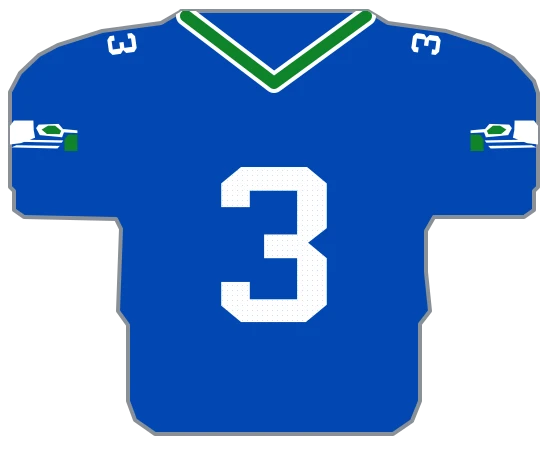
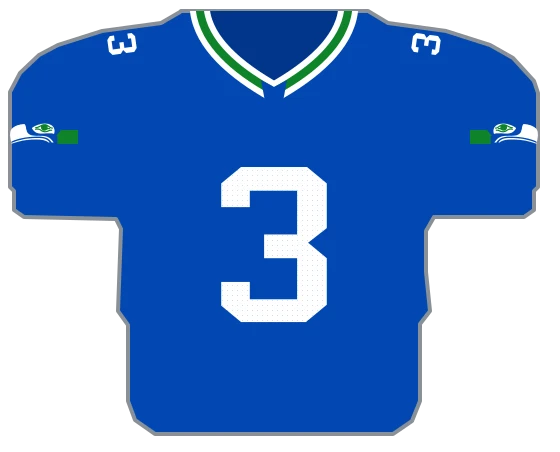
design(uniforms): use the shared inset V collar and the vector hawk on the Seahawks throwback (DEP-518)

Changed region(s): [[0.3036, 0.0, 0.6679, 0.2168], [0.8196, 0.2478, 0.9714, 0.3407], [0.0, 0.2478, 0.1518, 0.3407]]

diff --git a/web/lib/uniforms/teams/seahawks/source.ts b/web/lib/uniforms/teams/seahawks/source.ts
@@ -92,29 +92,29 @@ export const SEAHAWKS_NECK_TWELVE =
   'M290.58 411.5H287.93V399.27Q286.47 400.93 284.5 401.73V398.78Q285.54 398.37 286.76 397.21Q287.97 396.05 288.43 394.5H290.58V411.5ZM303.5 408.49V411.5H294.2Q294.35 409.79 295.11 408.26Q295.86 406.73 298.09 404.2Q299.88 402.16 300.29 401.43Q300.84 400.42 300.84 399.44Q300.84 398.36 300.36 397.77Q299.88 397.19 299.04 397.19Q298.21 397.19 297.72 397.8Q297.23 398.42 297.16 399.84L294.51 399.51Q294.75 396.83 296 395.67Q297.24 394.5 299.11 394.5Q301.16 394.5 302.33 395.85Q303.5 397.2 303.5 399.21Q303.5 400.36 303.16 401.39Q302.83 402.42 302.1 403.55Q301.62 404.31 300.37 405.71Q299.11 407.12 298.78 407.58Q298.44 408.05 298.23 408.49H303.5Z';
 
 // The throwback helmet's original hawk: a royal body under a white head, eye ring and cheek lines,
-// with a green eye and a green block at the rear. The sleeve copies drop the royal body, which
-// disappears into the royal sleeve. Regenerate with
+// with a green eye, brow line and rear block. The sleeve copies drop the royal body, which
+// disappears into the royal sleeve. Regenerate from the vector reference with
 // scripts/uniform-draw/seahawks_throwback_hawk.py.
 export const SEAHAWKS_THROWBACK_HAWK_ROYAL_PATH =
-  'M155.5,220.6 L176.1,213.1 L333.6,216.6 L348.4,222.3 L432.0,229.2 L456.6,255.1 L464.0,298.2 L456.6,338.4 L444.3,372.9 L432.0,367.1 L156.5,370.0 Z';
+  'M154.0,214.2 L317.6,214.2 L324.1,214.7 L326.9,215.3 L332.8,216.4 L340.7,218.4 L346.3,220.1 L349.7,221.5 L353.9,223.2 L358.4,225.1 L363.8,228.0 L366.3,229.4 L369.4,231.3 L372.2,233.3 L376.7,236.4 L377.6,236.7 L385.4,237.0 L387.1,237.3 L402.9,238.7 L407.1,239.5 L414.4,240.6 L419.5,241.8 L423.7,242.9 L425.7,243.4 L428.8,244.3 L436.4,247.1 L442.0,250.2 L446.0,253.0 L446.3,253.9 L447.4,254.1 L447.4,254.7 L448.5,255.3 L449.4,255.8 L449.4,256.4 L450.2,256.7 L450.2,257.2 L450.8,257.2 L451.9,258.6 L451.9,259.2 L452.5,259.2 L454.7,262.6 L454.7,263.2 L455.3,263.2 L458.4,269.6 L459.8,273.0 L460.6,275.8 L461.5,278.4 L462.6,282.6 L462.9,285.4 L463.2,286.0 L463.7,289.6 L464.0,293.0 L464.0,305.7 L463.4,310.2 L462.9,314.1 L462.0,318.3 L460.3,324.0 L459.2,327.6 L456.4,335.0 L454.1,339.5 L451.9,343.7 L450.5,345.7 L449.6,347.6 L449.1,347.6 L448.5,349.0 L447.7,350.4 L447.1,350.4 L446.5,351.8 L445.4,353.3 L443.7,355.2 L441.8,357.5 L439.5,360.0 L438.1,361.7 L436.4,362.8 L433.6,365.6 L432.5,366.2 L431.1,367.6 L428.0,369.9 L427.4,369.9 L427.4,370.4 L425.7,371.3 L424.9,371.3 L424.9,371.8 L424.0,371.8 L424.6,369.3 L426.0,365.6 L428.0,359.4 L430.2,350.7 L430.5,348.2 L428.5,347.3 L419.8,345.4 L404.3,342.3 L392.2,340.6 L376.7,339.7 L370.2,339.2 L364.3,338.9 L361.8,338.6 L246.6,338.6 L244.9,335.2 L243.8,331.3 L243.5,329.3 L243.5,316.7 L244.4,311.9 L247.2,304.0 L247.2,302.6 L246.1,300.6 L244.4,295.0 L243.8,290.2 L243.8,287.7 L244.4,282.3 L245.5,277.8 L246.6,274.4 L248.9,269.9 L251.1,266.3 L253.1,263.7 L254.0,262.6 L254.5,262.6 L254.5,262.0 L257.6,259.5 L261.3,256.7 L264.4,255.0 L268.9,252.7 L273.1,251.3 L277.0,250.2 L285.2,249.1 L293.1,248.8 L302.4,249.4 L307.7,250.2 L315.3,251.9 L323.8,253.6 L326.0,254.4 L329.4,255.3 L335.3,257.2 L342.6,259.8 L347.4,260.3 L351.7,259.2 L353.3,258.4 L355.0,257.0 L356.2,255.8 L357.9,253.3 L359.5,249.9 L360.1,248.2 L360.1,246.3 L355.6,245.1 L355.3,247.1 L353.1,251.3 L350.5,254.4 L347.2,255.8 L343.8,255.8 L342.9,255.3 L336.2,253.9 L327.4,251.0 L324.6,250.2 L322.4,249.4 L313.1,247.4 L302.9,245.7 L295.3,245.1 L285.2,245.4 L278.5,246.3 L273.1,247.4 L267.8,249.1 L261.3,252.2 L257.3,254.1 L251.1,257.5 L247.2,259.8 L243.3,262.3 L241.8,263.2 L241.0,264.0 L238.2,265.7 L236.8,266.3 L236.8,266.8 L232.8,269.1 L230.6,270.5 L154.0,270.5 Z';
 export const SEAHAWKS_THROWBACK_HAWK_WHITE_PATH =
-  'M341.0,240.7 L422.2,240.7 L439.4,263.7 L439.4,341.3 L392.7,335.5 L333.6,312.5 L339.5,280.9 Z M210.6,283.8 L235.2,255.1 L318.8,258.0 L329.7,272.3 L313.9,301.6 L220.4,310.8 Z M156.5,282.1 L215.5,276.3 L218.0,290.1 L156.5,293.6 Z M215.5,324.0 L377.9,321.1 L423.2,337.2 L377.9,330.3 L222.9,333.8 Z M230.3,347.0 L412.3,344.1 L433.0,353.3 L240.1,357.9 Z';
+  'M379.0,255.3 L382.9,255.6 L390.5,256.7 L395.6,257.5 L400.6,258.9 L405.7,260.1 L410.2,261.7 L413.3,263.2 L415.9,264.3 L419.5,266.3 L422.9,268.2 L424.9,269.3 L428.0,271.9 L430.2,273.9 L431.1,274.4 L431.1,275.0 L431.6,275.0 L433.3,277.8 L433.3,278.4 L433.9,278.4 L435.6,281.7 L435.8,284.0 L436.4,284.0 L437.3,287.4 L437.5,289.3 L437.8,290.5 L438.4,295.8 L438.4,303.7 L437.8,311.3 L437.5,311.9 L436.4,320.6 L436.1,321.2 L435.3,326.5 L434.7,329.3 L433.0,329.0 L429.9,327.6 L426.6,326.2 L422.9,324.5 L418.4,322.8 L415.3,322.0 L413.0,321.2 L405.4,318.6 L402.1,317.8 L397.8,316.7 L393.0,315.5 L385.2,313.8 L379.2,312.7 L367.7,311.0 L363.2,310.5 L358.4,309.9 L353.3,309.6 L351.9,309.3 L346.3,309.0 L344.9,308.8 L329.7,308.2 L310.5,308.2 L305.2,308.8 L296.2,310.5 L290.8,311.9 L286.3,313.6 L281.8,315.8 L278.5,317.8 L275.4,320.0 L274.8,320.0 L274.8,320.6 L273.4,322.0 L272.8,322.0 L272.8,322.6 L271.7,323.7 L271.1,323.7 L270.6,324.8 L268.0,327.9 L265.2,331.9 L263.8,333.0 L256.8,333.0 L256.8,332.1 L259.3,328.2 L262.4,324.3 L265.2,321.2 L265.8,321.2 L265.8,320.6 L266.3,320.6 L266.9,319.5 L267.5,319.5 L268.0,318.3 L272.3,314.7 L273.9,313.6 L275.9,312.1 L282.7,308.8 L288.0,307.1 L292.0,306.2 L295.6,305.7 L302.4,305.1 L318.2,304.5 L327.2,304.5 L335.0,304.3 L343.2,303.4 L349.1,302.3 L352.8,301.2 L358.1,298.3 L361.5,295.8 L364.0,293.3 L366.3,289.9 L368.3,285.7 L369.1,283.1 L370.0,279.2 L370.2,278.9 L370.5,277.0 L370.8,276.7 L371.9,269.9 L373.6,263.2 L374.7,260.3 L376.4,257.5 Z M290.3,253.6 L295.3,253.6 L300.4,253.9 L308.0,255.0 L310.8,255.6 L321.5,258.6 L329.7,261.7 L336.2,264.8 L339.3,266.8 L343.2,269.1 L344.3,269.9 L344.3,270.5 L345.5,271.0 L347.2,272.2 L346.6,273.9 L344.9,276.7 L343.5,278.6 L343.2,279.5 L342.6,279.5 L342.1,280.6 L341.2,281.7 L340.7,281.7 L340.1,282.9 L336.2,286.8 L335.0,287.1 L335.0,287.7 L331.7,289.9 L327.4,292.2 L323.2,293.6 L318.2,294.7 L310.5,295.5 L304.1,295.5 L301.0,295.3 L294.5,295.0 L291.4,294.7 L280.7,294.1 L266.9,294.4 L260.7,295.3 L255.6,296.9 L254.5,296.9 L253.1,293.3 L252.3,288.5 L252.0,284.3 L252.8,277.8 L254.5,273.0 L256.8,268.8 L259.9,265.1 L263.5,261.7 L269.4,258.4 L272.5,257.0 L279.0,255.0 L285.8,253.9 Z M312.0,314.1 L332.8,314.1 L342.4,314.4 L357.6,315.5 L374.2,317.5 L378.4,318.3 L387.4,320.0 L400.9,323.4 L408.0,325.4 L416.4,328.2 L422.0,330.2 L426.6,332.1 L432.7,335.2 L433.0,335.8 L433.0,337.8 L431.1,337.5 L428.0,336.4 L420.6,334.1 L412.8,331.9 L406.0,329.9 L401.2,328.5 L397.0,327.6 L387.4,325.4 L379.0,324.0 L367.7,322.3 L362.9,321.7 L351.7,320.9 L349.1,320.6 L328.9,320.3 L315.3,320.6 L310.3,320.9 L301.8,322.3 L296.8,323.4 L287.5,326.5 L282.1,329.3 L277.6,332.4 L277.0,332.7 L273.4,332.7 L273.9,331.3 L275.9,328.8 L280.7,324.0 L282.1,323.1 L283.5,322.0 L286.6,320.3 L290.6,318.3 L292.5,317.5 L299.8,315.5 L306.0,314.7 L310.8,314.4 Z';
 export const SEAHAWKS_THROWBACK_HAWK_BLOCK_PATH =
-  'M156.5,299.3 L195.8,299.3 L210.6,321.1 L210.6,368.3 L156.5,368.3 Z';
+  'M154.0,280.3 L225.0,280.3 L227.5,283.1 L227.5,283.7 L228.1,283.7 L230.0,286.2 L232.8,289.6 L233.1,290.7 L234.2,291.3 L234.8,292.7 L235.7,293.0 L237.6,295.5 L240.2,298.9 L241.6,300.0 L243.5,302.6 L243.3,304.0 L241.8,307.9 L241.3,310.2 L241.0,312.7 L240.4,315.2 L239.9,320.9 L239.9,328.8 L240.7,333.5 L241.6,336.6 L242.1,338.0 L241.0,338.6 L154.0,338.6 Z';
 export const SEAHAWKS_THROWBACK_HAWK_EYE_PATH =
-  'M224.4,283.8 L250.0,262.6 L279.5,262.6 L306.5,278.6 L284.4,297.0 L231.3,298.2 Z';
+  'M290.8,255.6 L297.0,255.6 L301.0,256.4 L306.3,258.4 L310.8,260.6 L315.6,263.2 L320.1,265.4 L325.5,267.4 L328.0,267.9 L332.2,268.2 L333.1,268.2 L333.6,271.0 L333.6,272.4 L332.5,273.0 L329.1,273.0 L324.6,272.2 L321.0,271.0 L317.6,269.6 L314.5,268.2 L310.5,266.3 L309.1,265.1 L308.9,265.4 L308.9,272.2 L308.0,274.7 L306.9,277.0 L304.9,279.5 L304.4,279.5 L304.4,280.0 L301.3,282.0 L298.7,283.1 L297.3,283.4 L293.1,283.4 L289.4,282.6 L286.6,280.9 L283.5,278.9 L280.7,277.8 L277.9,277.2 L273.9,277.2 L271.7,277.5 L271.4,276.4 L270.8,274.4 L271.1,273.0 L273.7,272.2 L278.2,272.2 L281.0,272.7 L281.0,269.6 L281.3,266.3 L281.8,264.8 L279.9,266.0 L275.9,269.1 L272.3,271.3 L269.4,273.0 L267.2,274.1 L264.9,274.7 L258.7,274.7 L258.7,270.5 L259.0,270.2 L263.2,269.9 L267.8,268.2 L271.7,266.0 L276.5,262.3 L280.7,259.8 L283.0,258.4 L285.2,257.2 L288.0,256.4 L289.4,255.8 Z M320.7,273.9 L327.7,273.9 L333.1,275.3 L334.2,275.8 L333.9,277.5 L333.1,280.3 L330.3,279.8 L327.7,279.2 L321.8,279.2 L318.7,279.8 L315.9,280.6 L310.8,283.4 L308.0,285.4 L304.1,287.7 L299.0,289.3 L295.9,289.9 L289.4,289.9 L285.2,289.3 L281.0,288.2 L277.6,286.8 L272.3,284.6 L269.4,284.0 L263.0,284.0 L261.6,281.2 L261.6,279.8 L265.5,278.9 L268.3,278.9 L272.5,279.5 L276.2,280.9 L283.0,283.4 L289.4,284.8 L295.3,284.8 L300.4,283.7 L303.8,282.3 L306.9,280.3 L311.7,277.0 L315.3,275.3 L317.9,274.4 Z';
 export const SEAHAWKS_THROWBACK_SLEEVE_WHITE_LEFT =
-  'M53.4,492.5 L34.0,492.5 L29.9,498.0 L29.9,516.5 L41.0,515.1 L55.1,509.7 L53.7,502.1 Z M84.5,502.8 L78.6,495.9 L58.7,496.6 L56.1,500.1 L59.8,507.1 L82.1,509.3 Z M97.4,502.4 L83.3,501.0 L82.7,504.3 L97.4,505.1 Z M83.3,512.4 L44.6,511.7 L33.7,515.6 L44.6,513.9 L81.6,514.7 Z M79.8,517.9 L36.3,517.2 L31.4,519.4 L77.4,520.5 Z';
+  'M44.3,496.0 L43.4,496.1 L41.5,496.3 L40.3,496.5 L39.1,496.9 L37.9,497.1 L36.8,497.5 L36.1,497.9 L35.5,498.1 L34.6,498.6 L33.8,499.1 L33.3,499.4 L32.6,500.0 L32.1,500.4 L31.9,500.6 L31.9,500.7 L31.7,500.7 L31.3,501.4 L31.3,501.5 L31.2,501.5 L30.8,502.3 L30.7,502.8 L30.6,502.8 L30.4,503.7 L30.3,504.1 L30.3,504.4 L30.1,505.7 L30.1,507.6 L30.3,509.4 L30.3,509.5 L30.6,511.6 L30.7,511.7 L30.9,513.0 L31.0,513.7 L31.4,513.6 L32.1,513.3 L32.9,512.9 L33.8,512.5 L34.9,512.1 L35.6,511.9 L36.2,511.7 L38.0,511.1 L38.8,510.9 L39.8,510.6 L40.9,510.4 L42.8,510.0 L44.2,509.7 L47.0,509.3 L48.1,509.2 L49.2,509.0 L50.4,509.0 L50.8,508.9 L52.1,508.8 L52.4,508.8 L56.1,508.6 L60.6,508.6 L61.9,508.8 L64.1,509.2 L65.3,509.5 L66.4,509.9 L67.5,510.4 L68.3,510.9 L69.0,511.5 L69.2,511.5 L69.2,511.6 L69.5,511.9 L69.6,511.9 L69.6,512.1 L69.9,512.3 L70.0,512.3 L70.2,512.6 L70.8,513.3 L71.5,514.3 L71.8,514.5 L73.5,514.5 L73.5,514.3 L72.9,513.4 L72.1,512.5 L71.5,511.7 L71.3,511.7 L71.3,511.6 L71.2,511.6 L71.0,511.3 L70.9,511.3 L70.8,511.0 L69.8,510.2 L69.4,509.9 L68.9,509.6 L67.3,508.8 L66.0,508.4 L65.1,508.2 L64.2,508.0 L62.6,507.9 L58.8,507.8 L56.7,507.8 L54.8,507.7 L52.8,507.5 L51.4,507.2 L50.5,506.9 L49.3,506.3 L48.5,505.7 L47.9,505.1 L47.3,504.3 L46.9,503.3 L46.7,502.6 L46.4,501.7 L46.4,501.6 L46.3,501.2 L46.2,501.1 L46.0,499.5 L45.6,497.9 L45.3,497.2 L44.9,496.5 Z M65.5,495.6 L64.3,495.6 L63.0,495.7 L61.2,495.9 L60.6,496.1 L58.0,496.8 L56.1,497.5 L54.5,498.3 L53.8,498.7 L52.8,499.3 L52.6,499.5 L52.6,499.6 L52.3,499.8 L51.9,500.0 L52.0,500.4 L52.4,501.1 L52.8,501.6 L52.8,501.8 L53.0,501.8 L53.1,502.0 L53.3,502.3 L53.4,502.3 L53.6,502.6 L54.5,503.5 L54.8,503.6 L54.8,503.7 L55.6,504.3 L56.6,504.8 L57.6,505.1 L58.8,505.4 L60.6,505.6 L62.2,505.6 L62.9,505.5 L64.5,505.5 L65.2,505.4 L67.8,505.3 L71.0,505.3 L72.5,505.5 L73.7,505.9 L74.0,505.9 L74.3,505.1 L74.5,503.9 L74.6,502.9 L74.4,501.4 L74.0,500.2 L73.5,499.2 L72.7,498.3 L71.9,497.5 L70.4,496.7 L69.7,496.4 L68.2,495.9 L66.5,495.7 Z M60.3,510.0 L55.3,510.0 L53.0,510.1 L49.4,510.4 L45.4,510.8 L44.4,511.0 L42.3,511.5 L39.1,512.3 L37.4,512.7 L35.4,513.4 L34.0,513.9 L32.9,514.3 L31.5,515.1 L31.4,515.2 L31.4,515.7 L31.9,515.6 L32.6,515.4 L34.4,514.8 L36.2,514.3 L37.8,513.8 L39.0,513.5 L40.0,513.3 L42.3,512.7 L44.3,512.4 L47.0,512.0 L48.1,511.9 L50.8,511.7 L51.4,511.6 L56.3,511.5 L59.5,511.6 L60.7,511.7 L62.7,512.0 L63.9,512.3 L66.1,513.0 L67.4,513.7 L68.5,514.4 L68.6,514.5 L69.5,514.5 L69.4,514.1 L68.9,513.5 L67.8,512.4 L67.4,512.2 L67.1,511.9 L66.3,511.5 L65.4,511.0 L64.9,510.8 L63.2,510.4 L61.7,510.2 L60.6,510.1 Z';
 export const SEAHAWKS_THROWBACK_SLEEVE_BLOCK_LEFT =
-  'M97.4,506.5 L88.0,506.5 L84.5,511.7 L84.5,523.0 L97.4,523.0 Z';
+  'M98.0,502.0 L81.1,502.0 L80.5,502.6 L80.5,502.8 L80.3,502.8 L79.9,503.4 L79.2,504.2 L79.1,504.5 L78.8,504.6 L78.7,504.9 L78.5,505.0 L78.0,505.6 L77.4,506.4 L77.1,506.7 L76.6,507.3 L76.7,507.6 L77.0,508.6 L77.2,509.1 L77.2,509.7 L77.4,510.3 L77.5,511.7 L77.5,513.5 L77.3,514.7 L77.1,515.4 L77.0,515.8 L77.2,515.9 L98.0,515.9 Z';
 export const SEAHAWKS_THROWBACK_SLEEVE_EYE_LEFT =
-  'M81.2,502.8 L75.1,497.7 L68.0,497.7 L61.6,501.6 L66.9,506.0 L79.6,506.2 Z';
+  'M65.3,496.1 L63.9,496.1 L62.9,496.3 L61.6,496.7 L60.6,497.3 L59.4,497.9 L58.3,498.4 L57.1,498.9 L56.5,499.0 L55.5,499.1 L55.3,499.1 L55.1,499.8 L55.1,500.1 L55.4,500.2 L56.2,500.2 L57.3,500.0 L58.1,499.8 L59.0,499.4 L59.7,499.1 L60.6,498.6 L61.0,498.3 L61.0,498.4 L61.0,500.0 L61.2,500.6 L61.5,501.2 L62.0,501.8 L62.1,501.8 L62.1,501.9 L62.8,502.4 L63.5,502.6 L63.8,502.7 L64.8,502.7 L65.7,502.5 L66.3,502.1 L67.1,501.6 L67.8,501.4 L68.4,501.2 L69.4,501.2 L69.9,501.3 L70.0,501.0 L70.1,500.6 L70.0,500.2 L69.4,500.0 L68.4,500.0 L67.7,500.2 L67.7,499.4 L67.6,498.6 L67.5,498.3 L68.0,498.5 L68.9,499.3 L69.8,499.8 L70.4,500.2 L71.0,500.5 L71.5,500.6 L73.0,500.6 L73.0,499.6 L72.9,499.6 L71.9,499.5 L70.8,499.1 L69.9,498.5 L68.8,497.7 L67.8,497.1 L67.2,496.7 L66.7,496.5 L66.0,496.3 L65.7,496.1 Z M58.2,500.4 L56.5,500.4 L55.3,500.8 L55.0,500.9 L55.1,501.3 L55.3,502.0 L55.9,501.8 L56.5,501.7 L57.9,501.7 L58.7,501.8 L59.4,502.0 L60.6,502.7 L61.2,503.2 L62.2,503.7 L63.4,504.1 L64.1,504.3 L65.7,504.3 L66.7,504.1 L67.7,503.9 L68.5,503.5 L69.8,503.0 L70.4,502.8 L72.0,502.8 L72.3,502.2 L72.3,501.8 L71.4,501.6 L70.7,501.6 L69.7,501.8 L68.8,502.1 L67.2,502.7 L65.7,503.1 L64.3,503.1 L63.0,502.8 L62.2,502.4 L61.5,502.0 L60.4,501.2 L59.5,500.8 L58.9,500.6 Z';
 export const SEAHAWKS_THROWBACK_SLEEVE_WHITE_RIGHT =
-  'M534.6,492.5 L554.0,492.5 L558.1,498.0 L558.1,516.5 L547.0,515.1 L532.9,509.7 L534.3,502.1 Z M503.5,502.8 L509.4,495.9 L529.3,496.6 L531.9,500.1 L528.2,507.1 L505.9,509.3 Z M490.6,502.4 L504.7,501.0 L505.3,504.3 L490.6,505.1 Z M504.7,512.4 L543.4,511.7 L554.3,515.6 L543.4,513.9 L506.4,514.7 Z M508.2,517.9 L551.7,517.2 L556.6,519.4 L510.6,520.5 Z';
+  'M543.7,496.0 L544.6,496.1 L546.5,496.3 L547.7,496.5 L548.9,496.9 L550.1,497.1 L551.2,497.5 L551.9,497.9 L552.5,498.1 L553.4,498.6 L554.2,499.1 L554.7,499.4 L555.4,500.0 L555.9,500.4 L556.1,500.6 L556.1,500.7 L556.3,500.7 L556.7,501.4 L556.7,501.5 L556.8,501.5 L557.2,502.3 L557.3,502.8 L557.4,502.8 L557.6,503.7 L557.7,504.1 L557.7,504.4 L557.9,505.7 L557.9,507.6 L557.7,509.4 L557.7,509.5 L557.4,511.6 L557.3,511.7 L557.1,513.0 L557.0,513.7 L556.6,513.6 L555.9,513.3 L555.1,512.9 L554.2,512.5 L553.1,512.1 L552.4,511.9 L551.8,511.7 L550.0,511.1 L549.2,510.9 L548.2,510.6 L547.1,510.4 L545.2,510.0 L543.8,509.7 L541.0,509.3 L539.9,509.2 L538.8,509.0 L537.6,509.0 L537.2,508.9 L535.9,508.8 L535.6,508.8 L531.9,508.6 L527.4,508.6 L526.1,508.8 L523.9,509.2 L522.7,509.5 L521.6,509.9 L520.5,510.4 L519.7,510.9 L519.0,511.5 L518.8,511.5 L518.8,511.6 L518.5,511.9 L518.4,511.9 L518.4,512.1 L518.1,512.3 L518.0,512.3 L517.8,512.6 L517.2,513.3 L516.5,514.3 L516.2,514.5 L514.5,514.5 L514.5,514.3 L515.1,513.4 L515.9,512.5 L516.5,511.7 L516.7,511.7 L516.7,511.6 L516.8,511.6 L517.0,511.3 L517.1,511.3 L517.2,511.0 L518.2,510.2 L518.6,509.9 L519.1,509.6 L520.7,508.8 L522.0,508.4 L522.9,508.2 L523.8,508.0 L525.4,507.9 L529.2,507.8 L531.3,507.8 L533.2,507.7 L535.2,507.5 L536.6,507.2 L537.5,506.9 L538.7,506.3 L539.5,505.7 L540.1,505.1 L540.7,504.3 L541.1,503.3 L541.3,502.6 L541.6,501.7 L541.6,501.6 L541.7,501.2 L541.8,501.1 L542.0,499.5 L542.4,497.9 L542.7,497.2 L543.1,496.5 Z M522.5,495.6 L523.7,495.6 L525.0,495.7 L526.8,495.9 L527.4,496.1 L530.0,496.8 L531.9,497.5 L533.5,498.3 L534.2,498.7 L535.2,499.3 L535.4,499.5 L535.4,499.6 L535.7,499.8 L536.1,500.0 L536.0,500.4 L535.6,501.1 L535.2,501.6 L535.2,501.8 L535.0,501.8 L534.9,502.0 L534.7,502.3 L534.6,502.3 L534.4,502.6 L533.5,503.5 L533.2,503.6 L533.2,503.7 L532.4,504.3 L531.4,504.8 L530.4,505.1 L529.2,505.4 L527.4,505.6 L525.8,505.6 L525.1,505.5 L523.5,505.5 L522.8,505.4 L520.2,505.3 L517.0,505.3 L515.5,505.5 L514.3,505.9 L514.0,505.9 L513.7,505.1 L513.5,503.9 L513.4,502.9 L513.6,501.4 L514.0,500.2 L514.5,499.2 L515.3,498.3 L516.1,497.5 L517.6,496.7 L518.3,496.4 L519.8,495.9 L521.5,495.7 Z M527.7,510.0 L532.7,510.0 L535.0,510.1 L538.6,510.4 L542.6,510.8 L543.6,511.0 L545.7,511.5 L548.9,512.3 L550.6,512.7 L552.6,513.4 L554.0,513.9 L555.1,514.3 L556.5,515.1 L556.6,515.2 L556.6,515.7 L556.1,515.6 L555.4,515.4 L553.6,514.8 L551.8,514.3 L550.2,513.8 L549.0,513.5 L548.0,513.3 L545.7,512.7 L543.7,512.4 L541.0,512.0 L539.9,511.9 L537.2,511.7 L536.6,511.6 L531.7,511.5 L528.5,511.6 L527.3,511.7 L525.3,512.0 L524.1,512.3 L521.9,513.0 L520.6,513.7 L519.5,514.4 L519.4,514.5 L518.5,514.5 L518.6,514.1 L519.1,513.5 L520.2,512.4 L520.6,512.2 L520.9,511.9 L521.7,511.5 L522.6,511.0 L523.1,510.8 L524.8,510.4 L526.3,510.2 L527.4,510.1 Z';
 export const SEAHAWKS_THROWBACK_SLEEVE_BLOCK_RIGHT =
-  'M490.6,506.5 L500.0,506.5 L503.5,511.7 L503.5,523.0 L490.6,523.0 Z';
+  'M490.0,502.0 L506.9,502.0 L507.5,502.6 L507.5,502.8 L507.7,502.8 L508.1,503.4 L508.8,504.2 L508.9,504.5 L509.2,504.6 L509.3,504.9 L509.5,505.0 L510.0,505.6 L510.6,506.4 L510.9,506.7 L511.4,507.3 L511.3,507.6 L511.0,508.6 L510.8,509.1 L510.8,509.7 L510.6,510.3 L510.5,511.7 L510.5,513.5 L510.7,514.7 L510.9,515.4 L511.0,515.8 L510.8,515.9 L490.0,515.9 Z';
 export const SEAHAWKS_THROWBACK_SLEEVE_EYE_RIGHT =
-  'M506.8,502.8 L512.9,497.7 L520.0,497.7 L526.4,501.6 L521.1,506.0 L508.4,506.2 Z';
+  'M522.7,496.1 L524.1,496.1 L525.1,496.3 L526.4,496.7 L527.4,497.3 L528.6,497.9 L529.7,498.4 L530.9,498.9 L531.5,499.0 L532.5,499.1 L532.7,499.1 L532.9,499.8 L532.9,500.1 L532.6,500.2 L531.8,500.2 L530.7,500.0 L529.9,499.8 L529.0,499.4 L528.3,499.1 L527.4,498.6 L527.0,498.3 L527.0,498.4 L527.0,500.0 L526.8,500.6 L526.5,501.2 L526.0,501.8 L525.9,501.8 L525.9,501.9 L525.2,502.4 L524.5,502.6 L524.2,502.7 L523.2,502.7 L522.3,502.5 L521.7,502.1 L520.9,501.6 L520.2,501.4 L519.6,501.2 L518.6,501.2 L518.1,501.3 L518.0,501.0 L517.9,500.6 L518.0,500.2 L518.6,500.0 L519.6,500.0 L520.3,500.2 L520.3,499.4 L520.4,498.6 L520.5,498.3 L520.0,498.5 L519.1,499.3 L518.2,499.8 L517.6,500.2 L517.0,500.5 L516.5,500.6 L515.0,500.6 L515.0,499.6 L515.1,499.6 L516.1,499.5 L517.2,499.1 L518.1,498.5 L519.2,497.7 L520.2,497.1 L520.8,496.7 L521.3,496.5 L522.0,496.3 L522.3,496.1 Z M529.8,500.4 L531.5,500.4 L532.7,500.8 L533.0,500.9 L532.9,501.3 L532.7,502.0 L532.1,501.8 L531.5,501.7 L530.1,501.7 L529.3,501.8 L528.6,502.0 L527.4,502.7 L526.8,503.2 L525.8,503.7 L524.6,504.1 L523.9,504.3 L522.3,504.3 L521.3,504.1 L520.3,503.9 L519.5,503.5 L518.2,503.0 L517.6,502.8 L516.0,502.8 L515.7,502.2 L515.7,501.8 L516.6,501.6 L517.3,501.6 L518.3,501.8 L519.2,502.1 L520.8,502.7 L522.3,503.1 L523.7,503.1 L525.0,502.8 L525.8,502.4 L526.5,502.0 L527.6,501.2 L528.5,500.8 L529.1,500.6 Z';
 // The throwback pant stripe: green, royal, green with white keylines. Four stacked bands, widest
 // first, each following the leg's outer edge 13 units in and stopping at the pant hem (y=1196).
 export const SEAHAWKS_THROWBACK_PANTS_WHITE_LEFT =

diff --git a/web/lib/uniforms/teams/seahawks/jerseys/throwback.ts b/web/lib/uniforms/teams/seahawks/jerseys/throwback.ts
@@ -9,11 +9,11 @@ import {
   SEAHAWKS_THROWBACK_SLEEVE_WHITE_LEFT,
   SEAHAWKS_THROWBACK_SLEEVE_WHITE_RIGHT,
 } from '../source';
-import { COLLAR_PATH, fill } from '../parts';
+import { modernInsetVCollar } from '../../core/shared';
+import { fill } from '../parts';
 
 // Royal body with white numerals, white shoulder numbers, the original hawk on each sleeve and a
-// white-green-white V collar. The collar is two centred strokes: the wide white one shows as the
-// outer and inner keylines around the narrower green one.
+// white-green-white V collar. The shared inset V collar gives the white edge with a green inset.
 export const SEAHAWKS_JERSEY_THROWBACK: UniformPart = {
   base: 'throwbackRoyal',
   layers: [
@@ -55,24 +55,15 @@ export const SEAHAWKS_JERSEY_THROWBACK: UniformPart = {
       SEAHAWKS_THROWBACK_SLEEVE_EYE_RIGHT,
       'throwbackGreen'
     ),
-    {
-      id: 'seahawks-throwback-collar-white',
-      surface: 'collar',
-      d: COLLAR_PATH,
-      clip: true,
-      kind: 'stroke',
-      stroke: 'white',
-      strokeWidth: 20,
-    },
-    {
-      id: 'seahawks-throwback-collar-green',
-      surface: 'collar',
-      d: COLLAR_PATH,
-      clip: true,
-      kind: 'stroke',
-      stroke: 'throwbackGreen',
-      strokeWidth: 12,
-    },
+    ...modernInsetVCollar({
+      idPrefix: 'seahawks-throwback',
+      colors: {
+        body: 'throwbackNeck',
+        edge: 'white',
+        inset: 'throwbackGreen',
+        placket: 'throwbackRoyal',
+      },
+    }),
   ],
   number: { fill: 'white', outline: 'throwbackRoyal', outlineWidth: 26 },
 };

diff --git a/web/lib/uniforms/teams/seahawks/parts.ts b/web/lib/uniforms/teams/seahawks/parts.ts
@@ -50,8 +50,6 @@ import type { UniformSurface } from '../core/types';
 
 import { SEAHAWKS_RIVALRIES_JERSEY_PALETTE } from './jerseys/rivalries-2025';
 
-export const COLLAR_PATH = 'M206,388 L294,455 L386,388';
-
 export const fill = (id: string, surface: UniformSurface, d: string, color: string): PartLayer => ({
   id,
   surface,
@@ -165,6 +163,8 @@ export const SEAHAWKS_PALETTE = {
   // The throwback's royal, green and two silvers have no published codes; each is the flat fill
   // of the GUD 2025 composite's throwback figure.
   throwbackRoyal: '#0248B3',
+  // The inside of the neck opening: the royal in shadow.
+  throwbackNeck: '#01358A',
   throwbackGreen: '#0E8329',
   throwbackSilver: '#A7B0BA',
   throwbackPantsSilver: '#DBDDDF',

diff --git a/web/scripts/uniform-draw/seahawks_throwback_hawk.py b/web/scripts/uniform-draw/seahawks_throwback_hawk.py
@@ -1,68 +1,117 @@
-"""Regenerates the throwback hawk in lib/uniforms/teams/seahawks/source.ts.
+"""Regenerates the throwback hawk in lib/uniforms/teams/seahawks/source.ts from $DECAL_SVGS.
 
-    python3 scripts/uniform-draw/seahawks_throwback_hawk.py            # print the paths
-    python3 scripts/uniform-draw/seahawks_throwback_hawk.py --check    # verify source.ts matches
+    DECAL_SVGS=<dir> python3 scripts/uniform-draw/seahawks_throwback_hawk.py          # print
+    DECAL_SVGS=<dir> python3 scripts/uniform-draw/seahawks_throwback_hawk.py --check  # verify
 
-HAND-DRAWN ANCHORS, not a contour trace. The only drawing of this decal is the throwback helmet
-in the GUD 2025 composite, where the whole mark is about 52 x 24 source pixels: a contour trace
-keeps the royal body but loses the white head's thin lower lines and smears the eye. The anchors
-below are read off that crop at 12x (sheet x258-330, y785-818, so one source pixel is 12 units)
-and walk each outline in one direction.
+The reference is a 1200px vector of the original hawk, saved as seahawks_throwback_hawk.svg in
+$DECAL_SVGS. Its first path is the white canvas; the rest are, in paint order, the royal body, the
+green rear block, the white head, the white eye ring, the green eye, the white cheek line and the
+green brow line. Each path's translation is applied and its points mapped straight into mannequin
+space without rasterizing or simplifying.
 
-The decal is a royal body under a white head, eye ring and two cheek lines, with a green eye and a
-green block at the rear. The body is one closed shape and the white and green shapes paint over
-it, so no fill rule is needed.
+The layers regroup those paths by color. That keeps paint order intact because the green block
+touches only the royal body, and the green eye and brow sit on the white head and eye ring.
 
-Placement keeps the extents a contour trace of the same helmet measured against the shell (the
-largest silver region), transferred to the mannequin shell's raw-space box x139-701.5, y65-637.4.
-
-The sleeve logo is the same drawing without its royal body, which disappears into the royal
-sleeve. It faces outward on each sleeve, so the viewer's-left copy is mirrored, and its beak
-overhangs the outer sleeve edge where the clip trims it.
+The helmet placement keeps the previous decal's x-range and vertical centre on the shell, and takes
+its height from the reference's aspect. The sleeve logo is the same drawing without its royal body,
+which disappears into the royal sleeve. It faces outward on each sleeve, so the viewer's-left copy
+is mirrored, and its beak overhangs the outer sleeve edge where the clip trims it.
 """
 
+import os
+import re
 import sys
+import xml.etree.ElementTree as ET
 from pathlib import Path
 
 sys.path.insert(0, str(Path(__file__).resolve().parent))
 
 from drawkit import Box, main  # noqa: E402
 
+REF = Path(os.environ.get('DECAL_SVGS', '.')) / 'seahawks_throwback_hawk.svg'
 MODULE = Path(__file__).resolve().parents[2] / 'lib' / 'uniforms' / 'teams' / 'seahawks' / 'source.ts'
+SVG_NS = '{http://www.w3.org/2000/svg}'
+TOKEN = re.compile(r'[a-zA-Z]|[-+]?(?:\d*\.\d+|\d+\.?)(?:[eE][-+]?\d+)?')
+TRANSLATE = re.compile(r'^translate\(\s*([-+]?[\d.]+)\s*(?:,\s*([-+]?[\d.]+))?\s*\)$')
 
-# Crop-pixel extents of the royal body; everything below is expressed against them.
-X0, X1, Y0, Y1 = 75.0, 705.0, 110.0, 392.0
+ROYAL, GREEN, WHITE = '#0B3298', '#21843A', '#FEFEFE'
+# (fill, layer) per reference path after the canvas, in paint order.
+EXPECTED = (
+    (ROYAL, 'ROYAL'),
+    (GREEN, 'BLOCK'),
+    (WHITE, 'WHITE'),
+    (WHITE, 'WHITE'),
+    (GREEN, 'EYE'),
+    (WHITE, 'WHITE'),
+    (GREEN, 'EYE'),
+)
 
-HELMET_BOX = Box(154.0, 212.0, 310.0, 162.0)
+# Helmet x-range and vertical centre, in the shell's raw space.
+HELMET_X0, HELMET_W, HELMET_CY = 154.0, 310.0, 293.0
 # Sleeve logo width and vertical centre in mannequin space, read off the GUD figure's sleeve.
 SLEEVE_W = 74.0
 SLEEVE_Y = 505.0
 
-BODY = [
-    (78, 125), (120, 112), (440, 118), (470, 128), (640, 140), (690, 185), (705, 260),
-    (690, 330), (665, 390), (640, 380), (80, 385),
-]
-HEAD = [(455, 160), (620, 160), (655, 200), (655, 335), (560, 325), (440, 285), (452, 230)]
-EYE_RING = [(190, 235), (240, 185), (410, 190), (432, 215), (400, 266), (210, 282)]
-EYE = [(218, 235), (270, 198), (330, 198), (385, 226), (340, 258), (232, 260)]
-BROW = [(80, 232), (200, 222), (205, 246), (80, 252)]
-CHEEK_UPPER = [(200, 305), (530, 300), (622, 328), (530, 316), (215, 322)]
-CHEEK_LOWER = [(230, 345), (600, 340), (642, 356), (250, 364)]
-BLOCK = [(80, 262), (160, 262), (190, 300), (190, 382), (80, 382)]
+
+def polygons(d, tx, ty):
+    """Absolute point lists for a path made only of M/L/H/V/Z commands."""
+    tokens = TOKEN.findall(d)
+    x = y = 0.0
+    shapes, current = [], None
+    i, cmd = 0, None
+    while i < len(tokens):
+        if tokens[i].isalpha():
+            cmd = tokens[i]
+            i += 1
+        if cmd in 'Zz':
+            shapes.append(current)
+            current, cmd = None, None
+            continue
+        if cmd in 'MmLl':
+            dx, dy = float(tokens[i]), float(tokens[i + 1])
+            i += 2
+            x, y = (x + dx, y + dy) if cmd.islower() else (dx, dy)
+            if cmd in 'Mm':
+                current = []
+                cmd = 'l' if cmd == 'm' else 'L'
+        elif cmd in 'Hh':
+            v = float(tokens[i])
+            i += 1
+            x = x + v if cmd == 'h' else v
+        elif cmd in 'Vv':
+            v = float(tokens[i])
+            i += 1
+            y = y + v if cmd == 'v' else v
+        else:
+            raise ValueError('unsupported SVG command %r' % cmd)
+        current.append((x + tx, y + ty))
+    return shapes
 
 
-def design(pts, mirror=False):
-    out = []
-    for x, y in pts:
-        u = (x - X0) * 100.0 / (X1 - X0)
-        out.append((100.0 - u if mirror else u, (y - Y0) * 100.0 / (Y1 - Y0)))
+def layers():
+    paths = ET.parse(REF).getroot().findall(SVG_NS + 'path')[1:]
+    if len(paths) != len(EXPECTED):
+        raise ValueError('expected %d hawk paths, got %d' % (len(EXPECTED), len(paths)))
+    out = {}
+    for el, (fill, layer) in zip(paths, EXPECTED):
+        if el.get('fill') != fill:
+            raise ValueError('expected fill %s, got %s' % (fill, el.get('fill')))
+        m = TRANSLATE.fullmatch(el.get('transform'))
+        out.setdefault(layer, []).extend(
+            polygons(el.get('d'), float(m.group(1)), float(m.group(2) or 0))
+        )
     return out
 
 
-def poly(box, *shapes, mirror=False):
+def emit(box, bounds, shapes, mirror=False):
+    x0, y0, x1, y1 = bounds
     subpaths = []
     for pts in shapes:
-        mapped = box.map(design(pts, mirror))
+        mapped = []
+        for x, y in pts:
+            u = (x - x0) * 100.0 / (x1 - x0)
+            mapped.append((100.0 - u if mirror else u, (y - y0) * 100.0 / (y1 - y0)))
+        mapped = box.map(mapped)
         subpaths.append(
             'M%.1f,%.1f ' % mapped[0] + ' '.join('L%.1f,%.1f' % p for p in mapped[1:]) + ' Z'
         )
@@ -70,21 +119,22 @@ def poly(box, *shapes, mirror=False):
 
 
 def build():
+    shapes = layers()
+    xs = [x for pts in shapes['ROYAL'] for x, _ in pts]
+    ys = [y for pts in shapes['ROYAL'] for _, y in pts]
+    bounds = (min(xs), min(ys), max(xs), max(ys))
+    aspect = (bounds[2] - bounds[0]) / (bounds[3] - bounds[1])
+    helmet = Box.from_center(HELMET_X0, HELMET_W, HELMET_CY, aspect)
     out = {
-        'SEAHAWKS_THROWBACK_HAWK_ROYAL_PATH': poly(HELMET_BOX, BODY),
-        'SEAHAWKS_THROWBACK_HAWK_WHITE_PATH': poly(
-            HELMET_BOX, HEAD, EYE_RING, BROW, CHEEK_UPPER, CHEEK_LOWER
-        ),
-        'SEAHAWKS_THROWBACK_HAWK_BLOCK_PATH': poly(HELMET_BOX, BLOCK),
-        'SEAHAWKS_THROWBACK_HAWK_EYE_PATH': poly(HELMET_BOX, EYE),
+        'SEAHAWKS_THROWBACK_HAWK_%s_PATH' % layer: emit(helmet, bounds, shapes[layer])
+        for layer in ('ROYAL', 'WHITE', 'BLOCK', 'EYE')
     }
-    sleeve_h = SLEEVE_W * HELMET_BOX.h / HELMET_BOX.w
     for side, x0, mirror in (('LEFT', 24.0, True), ('RIGHT', 588.0 - 24.0 - SLEEVE_W, False)):
-        box = Box(x0, SLEEVE_Y - sleeve_h / 2.0, SLEEVE_W, sleeve_h)
-        white = (HEAD, EYE_RING, BROW, CHEEK_UPPER, CHEEK_LOWER)
-        out['SEAHAWKS_THROWBACK_SLEEVE_WHITE_%s' % side] = poly(box, *white, mirror=mirror)
-        out['SEAHAWKS_THROWBACK_SLEEVE_BLOCK_%s' % side] = poly(box, BLOCK, mirror=mirror)
-        out['SEAHAWKS_THROWBACK_SLEEVE_EYE_%s' % side] = poly(box, EYE, mirror=mirror)
+        box = Box.from_center(x0, SLEEVE_W, SLEEVE_Y, aspect)
+        for layer in ('WHITE', 'BLOCK', 'EYE'):
+            out['SEAHAWKS_THROWBACK_SLEEVE_%s_%s' % (layer, side)] = emit(
+                box, bounds, shapes[layer], mirror=mirror
+            )
     return out
 
 
